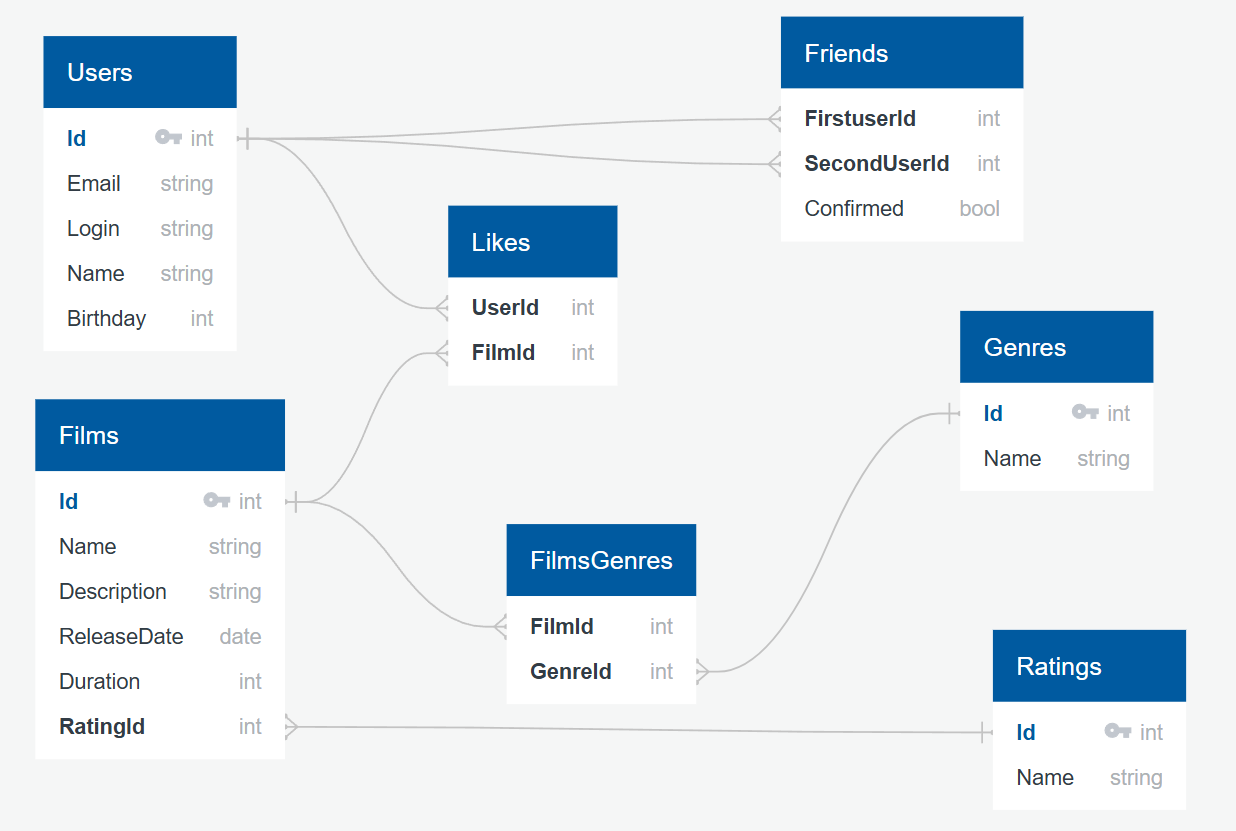
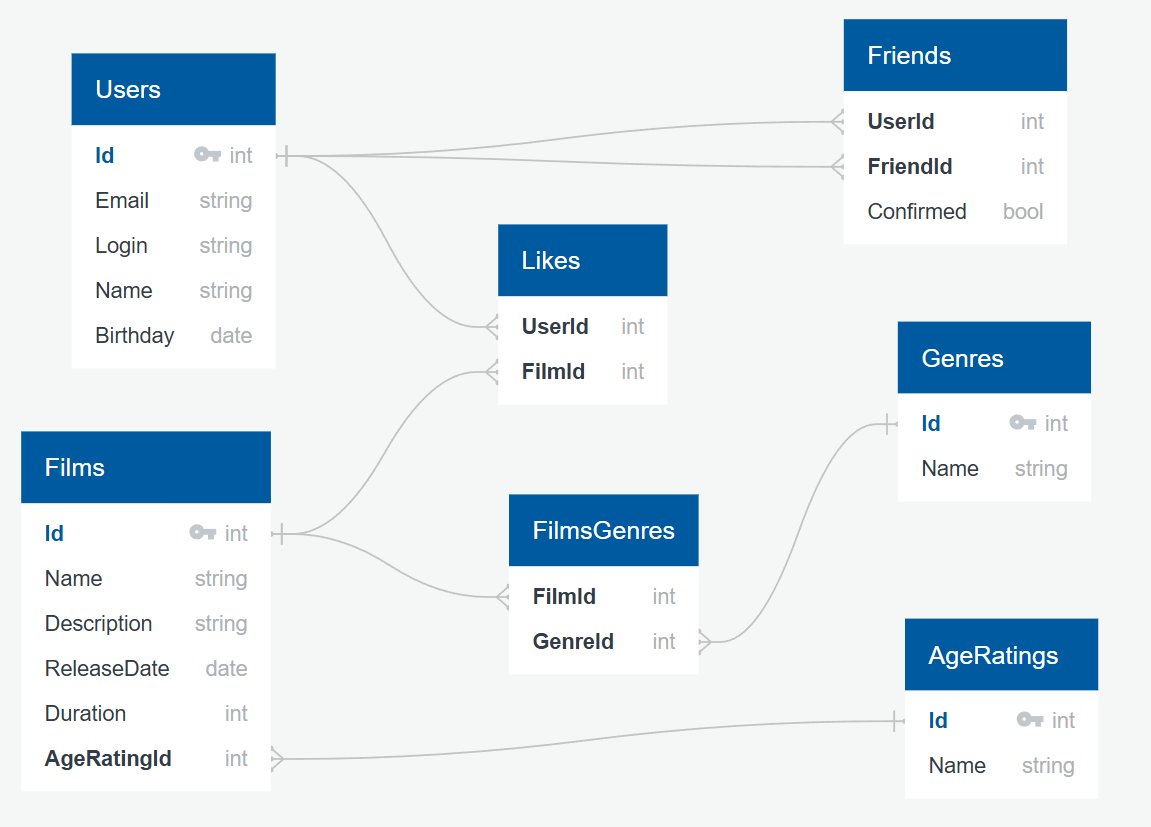
fix: изменены названия некоторых таблиц и колонок в них

diff --git a/README.md b/README.md
@@ -14,7 +14,7 @@ SELECT f.Id,
        f.Duration,
        r.Name AS Rating
 FROM Films AS f
-INNER JOIN Ratings AS r ON f.RatingId = r.Id
+INNER JOIN AgeRatings AS r ON f.AgeRatingId = r.Id
 WHERE f.Id IN (SELECT FilmId
 	       FROM Likes
 	       GROUP BY FilmId
@@ -26,19 +26,19 @@ WHERE f.Id IN (SELECT FilmId
 ```sql
 SELECT u.*
 FROM Users AS u
-INNER JOIN Friends AS f ON u.Id = f.SecondUserId
-WHERE f.FirstUserId = 1 AND f.Confirmed = True;
+INNER JOIN Friends AS f ON u.Id = f.FriendId
+WHERE f.UserId = 1 AND f.Confirmed = True;
 ```
 
 ### Получение общих друзей для пользователей с _Id_ = 1 и _Id_ = 2
 ```sql
 SELECT u.*
 	FROM Users AS u
-	INNER JOIN Friends AS f ON u.Id = f.SecondUserId
-	WHERE f.FirstUserId = 1 AND f.Confirmed = True
+	INNER JOIN Friends AS f ON u.Id = f.FriendId
+	WHERE f.UserId = 1 AND f.Confirmed = True
 INTERSECT
 SELECT u.*
 	FROM Users AS u
-	INNER JOIN Friends AS f ON u.Id = f.SecondUserId
-	WHERE f.FirstUserId = 2 AND f.Confirmed = True;
+	INNER JOIN Friends AS f ON u.Id = f.FriendId
+	WHERE f.UserId = 2 AND f.Confirmed = True;
 ```
